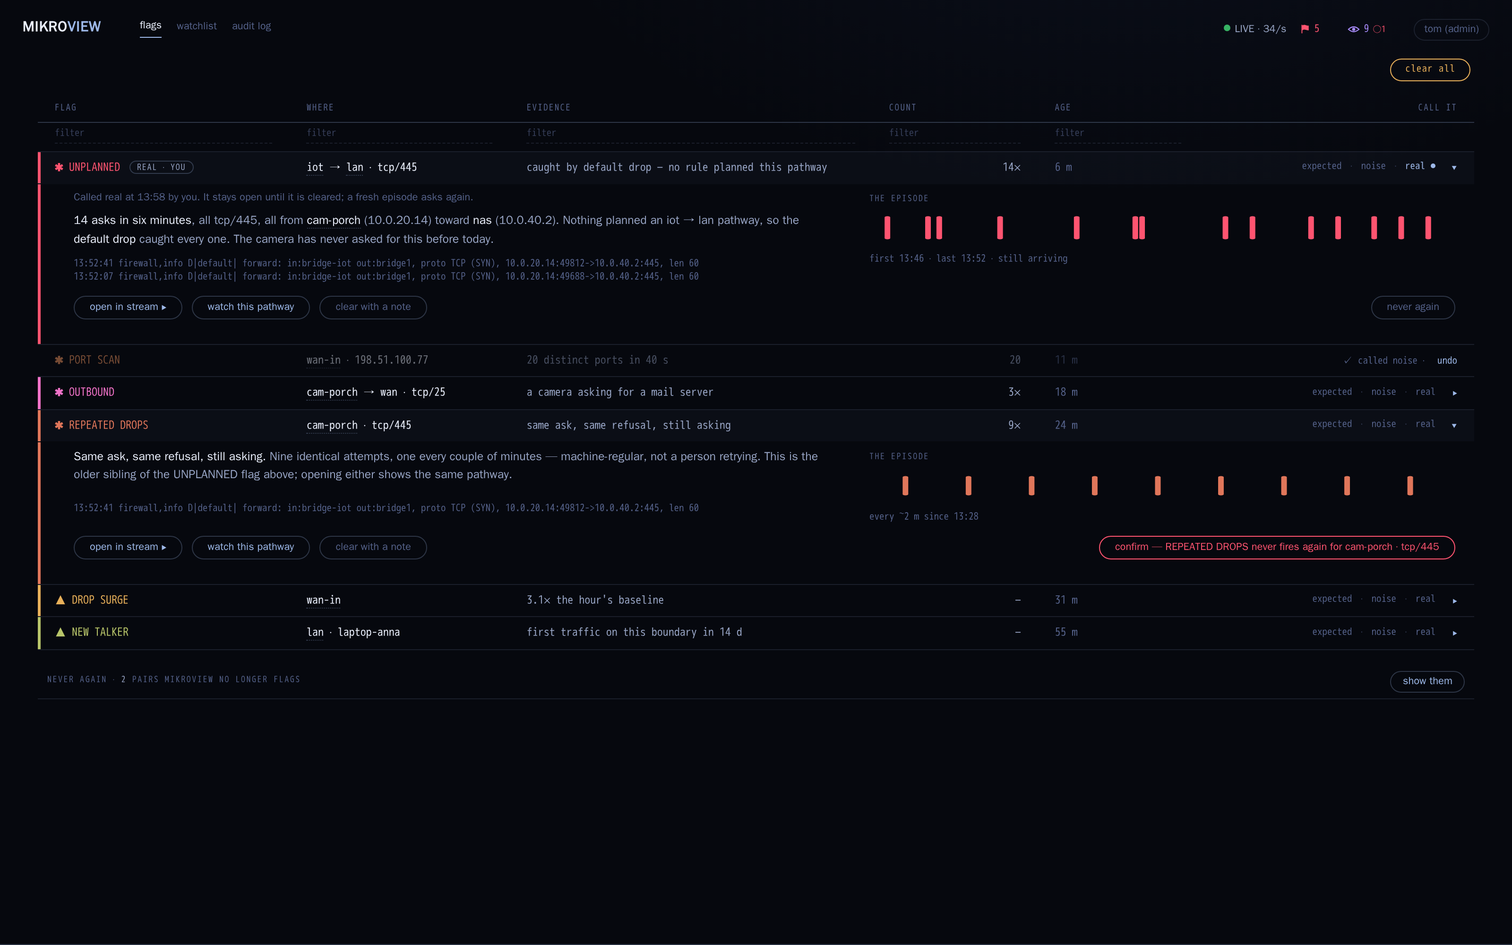
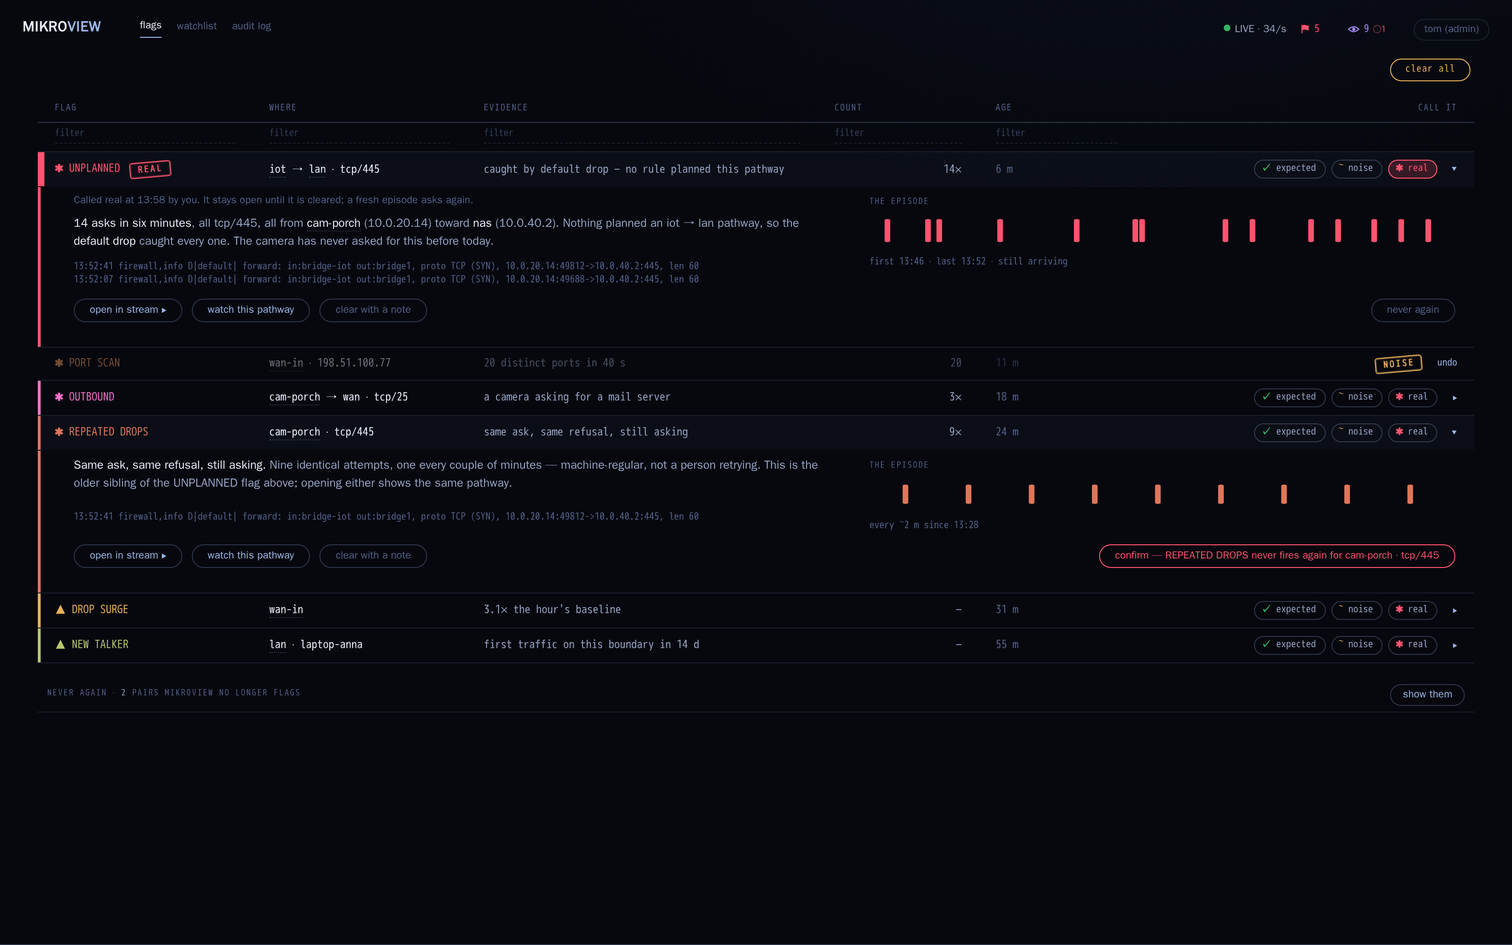
docs(design): round 35 — verdicts as glyph chips that land as stamps (#691)
Owner found the text verbs bland. Each verdict is now a chip in its own
ink (ok, now, alarm); a call thumps a tilted stamp onto the row in that
ink and flashes the row; real stamps beside the type and thickens the
row's bar; never again and cleared stamp in the quiet ink.

diff --git a/docs/design/concepts/round-35/verdicts-in-row.html b/docs/design/concepts/round-35/verdicts-in-row.html
@@ -658,17 +658,32 @@
      cleared; an exclusion is a verdict that outlives the flag
      ============================================================ */
   /* round 35: the verdict trio lives in the row, before the caret — one click, no drawer.
-     Three quiet verbs in the row's own mono, dot-separated like the chrome, lifted by the
-     row's hover and lit by the accent when chosen; no boxes — the docket speaks in text */
+     Three glyph chips in the verdict's own ink; a call lands as a stamp on the row */
   .panel td.vc { text-align: right; white-space: nowrap; }
-  .vrow { display: inline-flex; align-items: baseline; vertical-align: middle; margin-right: 18px; }
-  .vrow button.v { font: 10.5px var(--mono); color: var(--ink-3); background: transparent; border: 0; border-bottom: 1px dotted transparent; padding: 0; cursor: pointer; line-height: 16px; transition: color 0.15s; }
-  .vrow button.v + button.v::before { content: '·'; color: var(--ink-3); margin: 0 9px; opacity: 0.6; }
-  tr.frow:hover .vrow button.v { color: var(--ink-2); }
-  .vrow button.v:hover { color: var(--accent); border-bottom-color: var(--accent); }
-  .vrow button.v.on { color: var(--accent); }
-  .vrow button.v.on::after { content: ''; display: inline-block; width: 5px; height: 5px; border-radius: 50%; background: var(--accent); margin-left: 6px; vertical-align: 1px; }
   .panel th.vc { text-align: right; }
+  .vrow { display: inline-flex; gap: 6px; vertical-align: middle; margin-right: 16px; }
+  .vrow button.v { --vc: var(--ink-2); font: 10.5px var(--mono); color: var(--ink-2); background: transparent; border: 1px solid var(--hair-2); border-radius: 999px; padding: 1px 9px 1px 7px; cursor: pointer; line-height: 16px; transition: color 0.15s, border-color 0.15s, background 0.15s, transform 0.15s; }
+  .vrow button.v i { font-style: normal; color: var(--vc); margin-right: 5px; font-weight: 700; }
+  .vrow button.v.expected { --vc: var(--ok); }
+  .vrow button.v.noise { --vc: var(--now); }
+  .vrow button.v.real { --vc: var(--alarm); }
+  .vrow button.v:hover { color: var(--vc); border-color: var(--vc); background: color-mix(in srgb, var(--vc) 12%, transparent); transform: translateY(-1px); }
+  .vrow button.v.on { color: var(--vc); border-color: var(--vc); background: color-mix(in srgb, var(--vc) 18%, transparent); }
+  /* the stamp: a verdict pressed onto the docket in its own ink */
+  .stamp { --vc: var(--ink-3); display: inline-block; font: 800 9.5px var(--mono); letter-spacing: 0.2em; text-transform: uppercase; color: var(--vc); border: 1.5px solid var(--vc); border-radius: 3px; padding: 1px 7px 1px 8px; transform: rotate(-5deg); box-shadow: inset 0 0 0 1px color-mix(in srgb, var(--vc) 35%, transparent); animation: stamp-in 0.28s cubic-bezier(0.2, 1.6, 0.4, 1) both; vertical-align: middle; }
+  .stamp.expected { --vc: var(--ok); } .stamp.noise { --vc: var(--now); } .stamp.real { --vc: var(--alarm); }
+  @keyframes stamp-in { from { transform: rotate(-14deg) scale(2.1); opacity: 0; } 60% { opacity: 1; } to { transform: rotate(-5deg) scale(1); } }
+  /* the row takes the ink for a moment as the stamp lands */
+  tr.frow.struck td { animation: struck 0.7s ease-out both; }
+  @keyframes struck { from { background: color-mix(in srgb, var(--sc, var(--ink-3)) 16%, transparent); } }
+  tr.frow.struck.expected { --sc: var(--ok); } tr.frow.struck.noise { --sc: var(--now); } tr.frow.struck.real { --sc: var(--alarm); }
+  .vdone .by { color: var(--ink-3); margin-left: 8px; }
+  /* called real: the stamp sits by the type and the row's own bar thickens */
+  .fmark .stamp { margin-left: 10px; }
+  .fmark .by { font: 10.5px var(--mono); color: var(--ink-3); font-weight: 400; margin-left: 6px; }
+  tr.frow td:first-child { transition: box-shadow 0.35s ease; }
+  tr.frow.isreal td:first-child { box-shadow: inset 7px 0 0 var(--alarm) !important; }
+  @media (prefers-reduced-motion: reduce) { .stamp, tr.frow.struck td { animation: none; } .vrow button.v:hover { transform: none; } }
   .dwr-acts .never { margin-left: auto; }
   .dwr-acts .never.armed { color: var(--alarm); border-color: var(--alarm); }
   /* a flag that has been called: dims in place, keeps its row, offers undo until you leave the tab */
@@ -676,11 +691,10 @@
   tr.frow.fdone td:first-child { box-shadow: none !important; }
   tr.frow.fdone td:last-child { opacity: 1; }
   /* takes the trio's place in the same cell, so the columns never move for it */
-  .vdone { font: 10.5px var(--mono); color: var(--ink-3); white-space: nowrap; }
+  .vdone { font: 10.5px var(--mono); color: var(--ink-3); white-space: nowrap; display: inline-flex; align-items: center; gap: 8px; }
   .vdone a { color: var(--accent); cursor: pointer; margin-left: 8px; }
   .vdone a:hover { text-decoration: underline; }
   /* called real: stays open, and says so where the type is */
-  .fmark .real { font: 600 9px var(--mono); letter-spacing: 0.1em; text-transform: uppercase; color: var(--ink-2); border: 1px solid var(--hair-2); border-radius: 9px; padding: 0 7px; margin-left: 10px; vertical-align: 1px; }
   .story .called { display: block; color: var(--ink-3); font-size: 11px; margin-bottom: 6px; }
   /* the exclusions body: the type's ink is off — mikroview does not look at these */
   tr.fx .fmark { color: var(--ink-3) !important; }
@@ -723,7 +737,7 @@
     <table>
       <thead><tr><th>flag</th><th>where</th><th>evidence</th><th>count</th><th>age</th><th class="vc">call it</th></tr></thead>
       <tbody>
-        <tr class="frow ft-unplanned open" data-d="d1"><td class="fmark">✱ UNPLANNED</td><td class="k"><a class="wl" href="#s3" onclick="descend()">iot</a> → <a class="wl" href="#s3" onclick="descend()">lan</a> · tcp/445</td><td>caught by default drop — no rule planned this pathway</td><td class="num">14×</td><td class="t">6 m</td><td class="vc"><span class="vrow"><button class="v" data-v="expected">expected</button><button class="v" data-v="noise">noise</button><button class="v" data-v="real">real</button></span><span class="openc">▸</span></td></tr>
+        <tr class="frow ft-unplanned open" data-d="d1"><td class="fmark">✱ UNPLANNED</td><td class="k"><a class="wl" href="#s3" onclick="descend()">iot</a> → <a class="wl" href="#s3" onclick="descend()">lan</a> · tcp/445</td><td>caught by default drop — no rule planned this pathway</td><td class="num">14×</td><td class="t">6 m</td><td class="vc"><span class="vrow"><button class="v expected" data-v="expected"><i>✓</i>expected</button><button class="v noise" data-v="noise"><i>~</i>noise</button><button class="v real" data-v="real"><i>✱</i>real</button></span><span class="openc">▸</span></td></tr>
         <tr class="drawer open ft-unplanned" id="d1"><td colspan="6"><div class="dwr"><div class="dwr-in">
           <div class="story"><b>14 asks in six minutes</b>, all tcp/445, all from <a class="wl" href="#s3" onclick="descend()">cam-porch</a> (198.51.100.14) toward <b>nas</b> (198.51.100.2). Nothing planned an iot → lan pathway, so the <b>default drop</b> caught every one. The camera has never asked for this before today.</div>
           <div class="side"><span class="lab">the episode</span>
@@ -736,7 +750,7 @@
           <div class="dwr-acts"><button>open in stream ▸</button><button>watch this pathway</button><button class="quiet">clear with a note</button><button class="quiet never">never again</button></div>
         </div></div></td></tr>
 
-        <tr class="frow ft-portscan" data-d="d2"><td class="fmark">✱ PORT SCAN</td><td class="k"><a class="wl" href="#s3" onclick="descend()">wan-in</a> · 198.51.100.77</td><td>20 distinct ports in 40 s</td><td class="num">20</td><td class="t">11 m</td><td class="vc"><span class="vrow"><button class="v" data-v="expected">expected</button><button class="v" data-v="noise">noise</button><button class="v" data-v="real">real</button></span><span class="openc">▸</span></td></tr>
+        <tr class="frow ft-portscan" data-d="d2"><td class="fmark">✱ PORT SCAN</td><td class="k"><a class="wl" href="#s3" onclick="descend()">wan-in</a> · 198.51.100.77</td><td>20 distinct ports in 40 s</td><td class="num">20</td><td class="t">11 m</td><td class="vc"><span class="vrow"><button class="v expected" data-v="expected"><i>✓</i>expected</button><button class="v noise" data-v="noise"><i>~</i>noise</button><button class="v real" data-v="real"><i>✱</i>real</button></span><span class="openc">▸</span></td></tr>
         <tr class="drawer ft-portscan" id="d2"><td colspan="6"><div class="dwr"><div class="dwr-in">
           <div class="story"><b>One source, twenty doors.</b> 198.51.100.77 walked ports 1000–1019 in forty seconds, every knock refused at the wan boundary. Known scanner ranges say nothing about this address; the blocklist does not carry it.</div>
           <div class="side"><span class="lab">the episode</span>
@@ -749,7 +763,7 @@
           <div class="dwr-acts"><button>open in stream ▸</button><button>watch this source</button><button class="quiet">clear with a note</button><button class="quiet never">never again</button></div>
         </div></div></td></tr>
 
-        <tr class="frow ft-outbound" data-d="d3"><td class="fmark">✱ OUTBOUND</td><td class="k"><a class="wl" href="#s3" onclick="descend()">cam-porch</a> → wan · tcp/25</td><td>a camera asking for a mail server</td><td class="num">3×</td><td class="t">18 m</td><td class="vc"><span class="vrow"><button class="v" data-v="expected">expected</button><button class="v" data-v="noise">noise</button><button class="v" data-v="real">real</button></span><span class="openc">▸</span></td></tr>
+        <tr class="frow ft-outbound" data-d="d3"><td class="fmark">✱ OUTBOUND</td><td class="k"><a class="wl" href="#s3" onclick="descend()">cam-porch</a> → wan · tcp/25</td><td>a camera asking for a mail server</td><td class="num">3×</td><td class="t">18 m</td><td class="vc"><span class="vrow"><button class="v expected" data-v="expected"><i>✓</i>expected</button><button class="v noise" data-v="noise"><i>~</i>noise</button><button class="v real" data-v="real"><i>✱</i>real</button></span><span class="openc">▸</span></td></tr>
         <tr class="drawer ft-outbound" id="d3"><td colspan="6"><div class="dwr"><div class="dwr-in">
           <div class="story"><b>A camera asking for a mail server.</b> Three connection attempts to port 25 on three different external hosts. Cameras do not send mail; things that have been taken over do. Refused each time by the iot egress rule.</div>
           <div class="side"><span class="lab">the episode</span>
@@ -759,7 +773,7 @@
           <div class="dwr-acts"><button>open in stream ▸</button><button>watch this pathway</button><button class="quiet">clear with a note</button><button class="quiet never">never again</button></div>
         </div></div></td></tr>
 
-        <tr class="frow ft-repeat" data-d="d4"><td class="fmark">✱ REPEATED DROPS</td><td class="k"><a class="wl" href="#s3" onclick="descend()">cam-porch</a> · tcp/445</td><td>same ask, same refusal, still asking</td><td class="num">9×</td><td class="t">24 m</td><td class="vc"><span class="vrow"><button class="v" data-v="expected">expected</button><button class="v" data-v="noise">noise</button><button class="v" data-v="real">real</button></span><span class="openc">▸</span></td></tr>
+        <tr class="frow ft-repeat" data-d="d4"><td class="fmark">✱ REPEATED DROPS</td><td class="k"><a class="wl" href="#s3" onclick="descend()">cam-porch</a> · tcp/445</td><td>same ask, same refusal, still asking</td><td class="num">9×</td><td class="t">24 m</td><td class="vc"><span class="vrow"><button class="v expected" data-v="expected"><i>✓</i>expected</button><button class="v noise" data-v="noise"><i>~</i>noise</button><button class="v real" data-v="real"><i>✱</i>real</button></span><span class="openc">▸</span></td></tr>
         <tr class="drawer ft-repeat" id="d4"><td colspan="6"><div class="dwr"><div class="dwr-in">
           <div class="story"><b>Same ask, same refusal, still asking.</b> Nine identical attempts, one every couple of minutes — machine-regular, not a person retrying. This is the older sibling of the UNPLANNED flag above; opening either shows the same pathway.</div>
           <div class="side"><span class="lab">the episode</span>
@@ -769,7 +783,7 @@
           <div class="dwr-acts"><button>open in stream ▸</button><button>watch this pathway</button><button class="quiet">clear with a note</button><button class="quiet never">never again</button></div>
         </div></div></td></tr>
 
-        <tr class="frow ft-surge" data-d="d5"><td class="fmark">▲ DROP SURGE</td><td class="k"><a class="wl" href="#s3" onclick="descend()">wan-in</a></td><td>3.1× the hour's baseline</td><td class="num">—</td><td class="t">31 m</td><td class="vc"><span class="vrow"><button class="v" data-v="expected">expected</button><button class="v" data-v="noise">noise</button><button class="v" data-v="real">real</button></span><span class="openc">▸</span></td></tr>
+        <tr class="frow ft-surge" data-d="d5"><td class="fmark">▲ DROP SURGE</td><td class="k"><a class="wl" href="#s3" onclick="descend()">wan-in</a></td><td>3.1× the hour's baseline</td><td class="num">—</td><td class="t">31 m</td><td class="vc"><span class="vrow"><button class="v expected" data-v="expected"><i>✓</i>expected</button><button class="v noise" data-v="noise"><i>~</i>noise</button><button class="v real" data-v="real"><i>✱</i>real</button></span><span class="openc">▸</span></td></tr>
         <tr class="drawer ft-surge" id="d5"><td colspan="6"><div class="dwr"><div class="dwr-in">
           <div class="story"><b>The wan boundary is refusing 3.1× more than usual for this hour.</b> No single source dominates — it is a broad rise, the shape background scanning takes. Nothing inside answered anything.</div>
           <div class="side"><span class="lab">the hour against its baseline</span>
@@ -779,7 +793,7 @@
           <div class="dwr-acts"><button>open in metrics ▸</button><button class="quiet">clear with a note</button><button class="quiet never">never again</button></div>
         </div></div></td></tr>
 
-        <tr class="frow ft-talker" data-d="d6"><td class="fmark">▲ NEW TALKER</td><td class="k"><a class="wl" href="#s3" onclick="descend()">lan</a> · laptop-anna</td><td>first traffic on this boundary in 14 d</td><td class="num">—</td><td class="t">55 m</td><td class="vc"><span class="vrow"><button class="v" data-v="expected">expected</button><button class="v" data-v="noise">noise</button><button class="v" data-v="real">real</button></span><span class="openc">▸</span></td></tr>
+        <tr class="frow ft-talker" data-d="d6"><td class="fmark">▲ NEW TALKER</td><td class="k"><a class="wl" href="#s3" onclick="descend()">lan</a> · laptop-anna</td><td>first traffic on this boundary in 14 d</td><td class="num">—</td><td class="t">55 m</td><td class="vc"><span class="vrow"><button class="v expected" data-v="expected"><i>✓</i>expected</button><button class="v noise" data-v="noise"><i>~</i>noise</button><button class="v real" data-v="real"><i>✱</i>real</button></span><span class="openc">▸</span></td></tr>
         <tr class="drawer ft-talker" id="d6"><td colspan="6"><div class="dwr"><div class="dwr-in">
           <div class="story"><b>laptop-anna spoke for the first time in fourteen days.</b> Ordinary browsing shape, all accepted. New-talker flags exist so a quiet name reappearing is a thing you saw, not a thing that slipped by.</div>
           <div class="side"><span class="lab">first minutes</span>
@@ -1371,14 +1385,18 @@
     function typeOf(r) { return r.querySelector('.fmark').firstChild.textContent.trim().replace(/^[✱▲] /, ''); }
     function close(r) { r.classList.remove('open'); document.getElementById(r.dataset.d).classList.remove('open'); }
     // a called flag dims where it is; undo puts it back exactly
-    var TRIO = '<span class="vrow"><button class="v" data-v="expected">expected</button><button class="v" data-v="noise">noise</button><button class="v" data-v="real">real</button></span><span class="openc">▸</span>';
-    function done(r, text, undo) {
-      close(r); r.classList.add('fdone');
+    var TRIO = '<span class="vrow"><button class="v expected" data-v="expected"><i>✓</i>expected</button><button class="v noise" data-v="noise"><i>~</i>noise</button><button class="v real" data-v="real"><i>✱</i>real</button></span><span class="openc">▸</span>';
+    function strike(r, kind) {
+      r.classList.remove('struck', 'expected', 'noise', 'real'); void r.offsetWidth;
+      r.classList.add('struck', kind);
+    }
+    function done(r, kind, text, after, undo) {
+      close(r); r.classList.add('fdone'); strike(r, kind);
       var c = r.cells[5];
-      c.innerHTML = '<span class="vdone">✓ ' + text + (undo ? ' · <a>undo</a>' : '') + '</span>';
+      c.innerHTML = '<span class="vdone"><span class="stamp ' + kind + '">' + text + '</span>' + (after ? '<span class="by">' + after + '</span>' : '') + (undo ? '<a>undo</a>' : '') + '</span>';
       if (undo) c.querySelector('a').addEventListener('click', function (e) {
         e.stopPropagation();
-        r.classList.remove('fdone'); c.innerHTML = TRIO;
+        r.classList.remove('fdone', 'struck', kind); c.innerHTML = TRIO;
         fcount();
       });
       fcount();
@@ -1392,14 +1410,16 @@
         if (v === 'real') {
           var on = !b.classList.contains('on');
           r.querySelectorAll('.v').forEach(function (x) { x.classList.toggle('on', on && x === b); });
-          var fm = r.querySelector('.fmark'), tag = fm.querySelector('.real');
-          if (on && !tag) fm.insertAdjacentHTML('beforeend', '<span class="real">real · you</span>'); else if (!on && tag) tag.remove();
+          var fm = r.querySelector('.fmark'), tag = fm.querySelector('.stamp');
+          r.classList.toggle('isreal', on);
+          if (on) { strike(r, 'real'); if (!tag) fm.insertAdjacentHTML('beforeend', '<span class="stamp real">real</span>'); }
+          else { r.classList.remove('struck', 'real'); if (tag) tag.remove(); }
           var st = d.querySelector('.story'), c = st.querySelector('.called');
           if (on && !c) st.insertAdjacentHTML('afterbegin', '<span class="called">Called real at 13:58 by you. It stays open until it is cleared; a fresh episode asks again.</span>');
           else if (!on && c) c.remove();
           return;
         }
-        done(r, 'called ' + v, true);
+        done(r, v, v, '', true);
       });
     });
     function disarmAll() {
@@ -1416,11 +1436,11 @@
             return;
           }
           b.classList.remove('armed'); b.textContent = 'never again';
-          done(r, 'never again · listed below', false);
+          done(r, 'never', 'never again', '', false);
           addExcl(r);
           return;
         }
-        if (b.classList.contains('quiet') && /^clear/.test(b.textContent)) done(r, 'cleared', true);
+        if (b.classList.contains('quiet') && /^clear/.test(b.textContent)) done(r, 'cleared', 'cleared', '', true);
       });
     });
     document.addEventListener('click', function (e) { if (!e.target.closest('.never')) disarmAll(); }, true);
@@ -1452,7 +1472,7 @@
       var nr = document.createElement('tr'), nd = document.createElement('tr');
       nr.className = 'frow fx ' + Array.prototype.filter.call(r.classList, function (c) { return /^ft-/.test(c); }).join(' ');
       nr.dataset.d = id;
-      nr.innerHTML = '<td class="fmark">' + type + '</td><td class="k">' + where + '</td><td>never again — just now, you</td><td class="num">—</td><td class="t">now</td><td><span class="openc">▸</span></td>';
+      nr.innerHTML = '<td class="fmark">' + type + '</td><td class="k">' + where + '</td><td>never again — just now, you</td><td class="num">—</td><td class="t">now</td><td class="vc"><span class="openc">▸</span></td>';
       nd.className = 'drawer fx'; nd.id = id;
       nd.innerHTML = '<td colspan="6"><div class="dwr"><div class="dwr-in"><div class="story"><b>Told never to flag this again</b> just now, by you. Nothing about the pair is counted or held now — mikroview simply does not look. The audit log has this line.</div>'
         + '<div class="side"><span class="lab">the pair</span><ul class="seen facts"><li><span>flag</span><b>' + typeOf(r) + '</b></li><li><span>target</span><b>' + r.cells[1].textContent.trim() + '</b></li><li><span>since</span><b>13:58</b></li><li><span>by</span><b>you</b></li></ul></div>'

diff --git a/docs/design/concepts/round-35/README.md b/docs/design/concepts/round-35/README.md
@@ -13,27 +13,31 @@ exclusion is a verdict that outlives the flag** — and gains a corollary:
 ## What moved
 
 1. **The trio is the row's last cell**, before the caret, under its
-   own column head `CALL IT`: `expected · noise · real` as three quiet
-   verbs in the row's mono at `ink-3`, dot-separated the way the chrome
-   is. No boxes — the docket speaks in text and dotted underlines, and
-   three boxed pills a row were the heaviest thing on the page. The
-   row's hover lifts them to `ink-2`; a verb's own hover takes the
-   accent and the where-link's dotted underline; the chosen one keeps
-   the accent with a small filled dot after it. No filter under this
-   head: verdicts are given, not searched. A click on a verb is a
-   verdict and never toggles the drawer (`closest('a, button')` in the
-   row's click guard). `POST /api/flags/{id}/verdict {verdict}`.
-2. **Called expected or noise** dims the row where it stands, and the
-   cell the trio occupied now reads `✓ called noise · undo` — the
-   column never moves. `undo` puts the trio back.
-3. **Called real** lights the `real` pill, marks the type
-   `✱ UNPLANNED  REAL · YOU`, and the story leads with *Called real at
-   13:58 by you…* whether or not the drawer is open.
+   own column head `CALL IT`: three glyph chips, each in its verdict's
+   own ink — `✓ expected` in the ok green, `~ noise` in the amber the
+   docket uses for *now*, `✱ real` in the alarm ink the flag mark wears.
+   Hover fills a chip with a wash of its colour and lifts it a pixel.
+   No filter under this head: verdicts are given, not searched. A click
+   on a chip is a verdict and never toggles the drawer
+   (`closest('a, button')` in the row's click guard).
+   `POST /api/flags/{id}/verdict {verdict}`.
+2. **A verdict lands as a stamp.** This is a docket, so a call is
+   pressed onto it: the chip's word becomes a small tilted rubber stamp
+   in the same ink — `NOISE`, `EXPECTED` — thumping in at twice its size
+   (`stamp-in`, 280 ms, overshoot) while the row flashes a wash of that
+   colour and settles dim. The stamp takes the trio's place in the same
+   cell, with `undo` beside it, so the columns never move. `undo` puts
+   the trio back. `clear with a note` stamps `CLEARED` in the quiet ink.
+3. **Called real** stamps `REAL` beside the flag's type in alarm ink,
+   thickens the row's own colour bar from 3 px to 7 px, lights the
+   `✱ real` chip, and the story leads with *Called real at 13:58 by
+   you…* whether or not the drawer is open. The flag stays open.
 4. **`never again`** stays in the drawer, now alone at the right of the
    action row: it is the one verdict that wants a second look and a
    confirm, and the drawer is where the evidence is. Its arm-then-
-   confirm, the exclusions body and `let it fire again` are round 34's,
-   unchanged.
+   confirm is round 34's; done, it stamps `NEVER AGAIN` in the quiet
+   ink and the pair appears in the exclusions body below, which with
+   `let it fire again` is unchanged.
 
 Nothing else changes: the row's columns keep their order, the drawer's
 `open in stream ▸ · watch this pathway · clear with a note` are round
@@ -48,13 +52,16 @@ round 34's README still apply.
 `let-it-fire-again`. Calls in `called-noise` and `called-expected` are
 made with the drawer closed.
 
-No new data palette: the verbs are the row's own mono in `ink-3`,
-`ink-2` and the accent — the dataviz validator has nothing new to
-check.
+Palette: the three verdict inks are existing tokens — `--ok`, `--now`,
+`--alarm` — used here for the first time as a trio side by side; the
+dataviz validator has nothing new to check, but the build should keep
+the three as tokens, not literals. `prefers-reduced-motion` turns off
+the stamp, the flash and the hover lift.
 
 ## Verdicts
 
 2026-09-01, owner, on the first cut (three bordered pills a row): "Could
 we make this more aesthetically pleasing in keeping with Mikroview's new
-UI?" — reworked in place to the quiet text verbs above, before any
-acceptance.
+UI?" — reworked in place to quiet dot-separated text verbs. Owner:
+"Very bland... was hoping for something cooler." — reworked again to
+the glyph chips and stamps above, before any acceptance.
